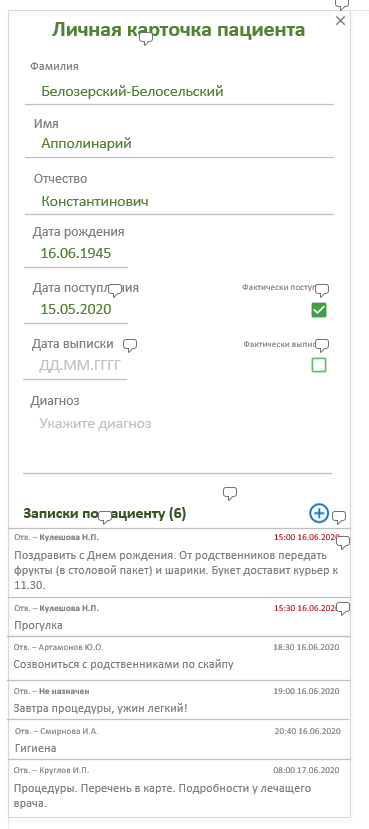
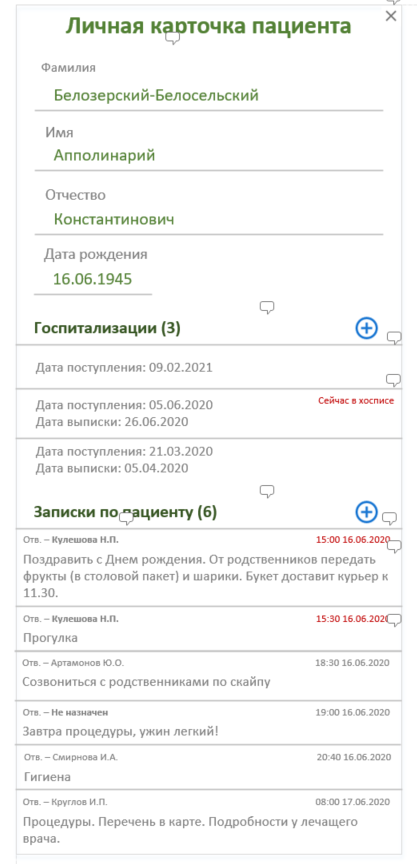
pmh-6 add controller for patient card - refresh diagrams

diff --git a/src/main/java/ru/iteco/fmh/controller/PatientController.java b/src/main/java/ru/iteco/fmh/controller/PatientController.java
@@ -1,0 +1,50 @@
+package ru.iteco.fmh.controller;
+
+import io.swagger.annotations.Api;
+import io.swagger.annotations.ApiOperation;
+import io.swagger.annotations.ApiParam;
+import io.swagger.v3.oas.annotations.tags.Tag;
+import org.springframework.web.bind.annotation.GetMapping;
+import org.springframework.web.bind.annotation.PathVariable;
+import org.springframework.web.bind.annotation.RequestMapping;
+import org.springframework.web.bind.annotation.RestController;
+import ru.iteco.fmh.dto.AdmissionDto;
+import ru.iteco.fmh.dto.NoteDto;
+import ru.iteco.fmh.dto.PatientMainInfoDto;
+
+import java.util.List;
+
+/**
+ * Информация по пациенту
+ */
+@RestController
+@Api(value = "/patient")
+@Tag(name = "patient controller", description = "Информация по пациенту")
+@RequestMapping("/patient")
+public class PatientController {
+
+    @ApiOperation(value = "возвращает общую информацию по пациенту")
+    @GetMapping("/{id}")
+    public PatientMainInfoDto getMainInfo(
+            @ApiParam(value = "идентификатор пациента", required = true)@PathVariable Integer id
+    ){
+        return null;
+    }
+
+    @ApiOperation(value = "возвращает информацию по госпитализациям пациента")
+    @GetMapping("/{patientId}/admission")
+    public List<AdmissionDto> getAdmissions(
+            @ApiParam(value = "идентификатор пациента", required = true)@PathVariable Integer patientId
+    ){
+        return null;
+    }
+
+    @ApiOperation(value = "возвращает информацию по запискам пациента")
+    @GetMapping("/{patientId}/note")
+    public List<NoteDto> getNotes(
+            @ApiParam(value = "идентификатор пациента", required = true)@PathVariable Integer patientId
+    ){
+        return null;
+    }
+
+}

diff --git a/src/main/java/ru/iteco/fmh/dto/NoteDto.java b/src/main/java/ru/iteco/fmh/dto/NoteDto.java
@@ -1,0 +1,23 @@
+package ru.iteco.fmh.dto;
+
+import io.swagger.annotations.ApiModel;
+import io.swagger.annotations.ApiModelProperty;
+import lombok.Builder;
+import lombok.Data;
+
+import java.time.LocalDateTime;
+
+@ApiModel(description = "записка")
+@Builder
+@Data
+public class NoteDto {
+    @ApiModelProperty("исполнитель, в формате \"Кузнецова Н.П.\"")
+    private String executor;
+    @ApiModelProperty("описание записки")
+    private String description;
+    //TODO какое время записки исполнения или создания
+    @ApiModelProperty("время записки")
+    private LocalDateTime dateTime;
+    @ApiModelProperty("признак актуальности записки")
+    private Boolean isActual;
+}

diff --git a/src/main/java/ru/iteco/fmh/dto/PatientMainInfoDto.java b/src/main/java/ru/iteco/fmh/dto/PatientMainInfoDto.java
@@ -1,0 +1,22 @@
+package ru.iteco.fmh.dto;
+
+import io.swagger.annotations.ApiModel;
+import io.swagger.annotations.ApiModelProperty;
+import lombok.Builder;
+import lombok.Data;
+
+import java.time.LocalDate;
+
+@ApiModel(description = "основная информация по пациенту")
+@Builder
+@Data
+public class PatientMainInfoDto {
+    @ApiModelProperty("имя пациента")
+    private String name;
+    @ApiModelProperty("фамилия пациента")
+    private String lastName;
+    @ApiModelProperty("отчество пациента")
+    private String middleName;
+    @ApiModelProperty("дата рождения пациента")
+    private LocalDate birthDate;
+}

diff --git a/src/main/java/ru/iteco/fmh/dto/AdmissionDto.java b/src/main/java/ru/iteco/fmh/dto/AdmissionDto.java
@@ -1,0 +1,20 @@
+package ru.iteco.fmh.dto;
+
+import io.swagger.annotations.ApiModel;
+import io.swagger.annotations.ApiModelProperty;
+import lombok.Builder;
+import lombok.Data;
+
+import java.time.LocalDate;
+
+@ApiModel(description = "информация по госпитализации")
+@Builder
+@Data
+public class AdmissionDto {
+    @ApiModelProperty("дата поступления")
+    private LocalDate dateIn;
+    @ApiModelProperty("дата выписки")
+    private LocalDate dateOut;
+    @ApiModelProperty(value = "фактическое поступление, признак того, что пациент находится в хосписе")
+    private Boolean factIn;
+}
